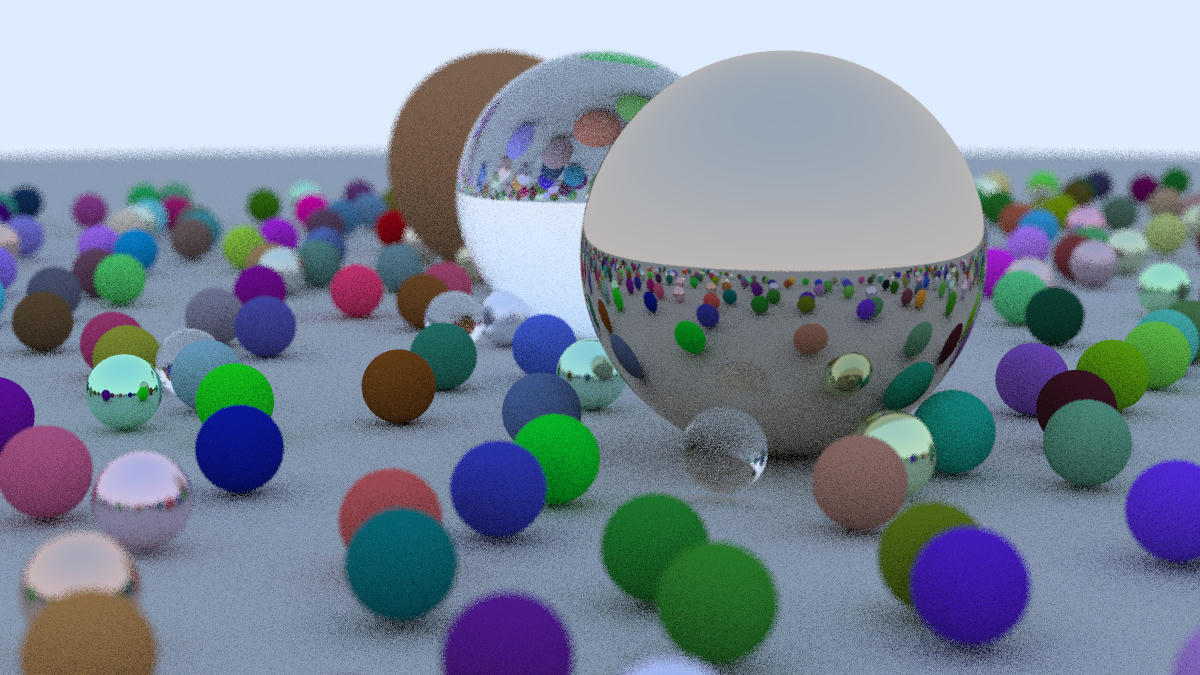
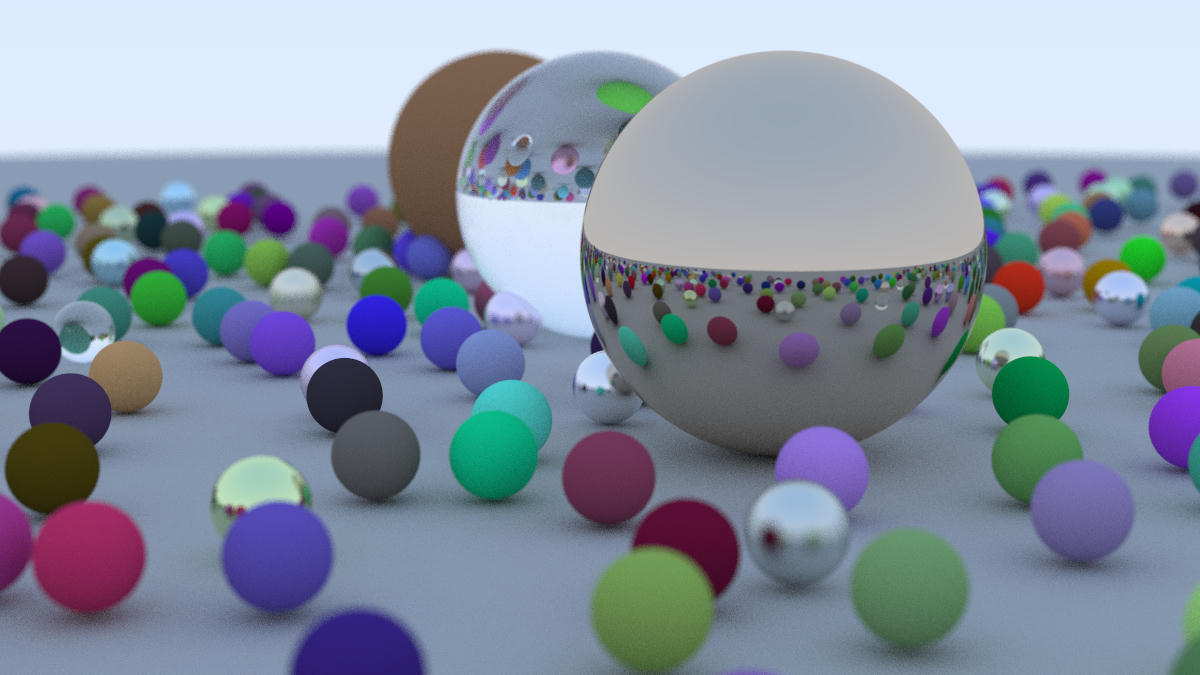
Update Readme with example and possible to-do

diff --git a/src/main.rs b/src/main.rs
@@ -54,9 +54,9 @@ fn main() {
     scene.add(Box::new(Sphere::new(Vec3::new(4.0, 1.0, 0.0), 1.0, mat3)));
 
     // let cam = Camera::new(1200, 675, 10, 10);
-    // let cam = Camera::new(1200, 675, 500, 50);
+    let cam = Camera::new(1200, 675, 100, 50);
     // let cam = Camera::new(400, 300, 100, 50);
-    let cam = Camera::new(100, 100, 10, 10);
+    // let cam = Camera::new(100, 100, 10, 10);
     println!("Starting render...");
     let res = cam.render(&scene);
     if res.is_err() {

diff --git a/README.md b/README.md
@@ -1,2 +1,19 @@
 To re-familiarize myself with Rust, I felt it fitting to write a ray-marcher.
 Based on the guide [RayTracing In One Weekend](https://raytracing.github.io/books/RayTracingInOneWeekend.html).
+
+Example rendered image:
+
+![alt text](./output/test.jpg)
+
+Possible to-do:
+- [X] implement basics
+- [x] reduce cloning
+- [ ] set up benchmarking test
+- [ ] Box overuse?
+- [ ] Rng
+- [ ] replace with constants?
+- [ ] adjust to Rust
+- [ ] allocation on hot paths
+- [ ] SIMD?
+- [ ] switch to f32 and compare?
+- [ ] multithread
